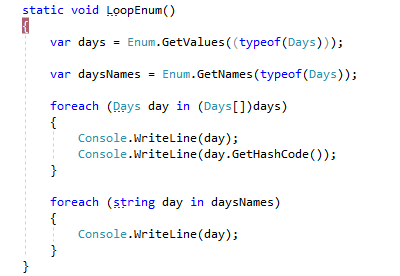
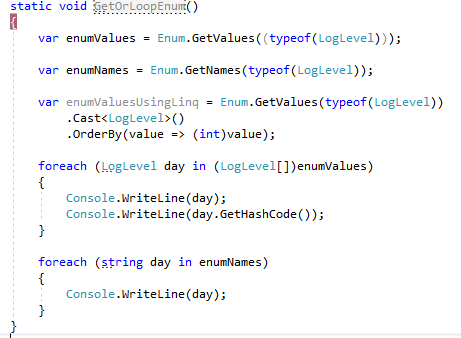
Modified few changes

diff --git a/content/tutorial/c-sharp/loop-enum/index.md b/content/tutorial/c-sharp/loop-enum/index.md
@@ -1,6 +1,6 @@
 +++
-title="How to loop enum values in C#"
-summary="Steps to loop enum values in C# 1.Use C# Enum.GetValues() method to get all possible values of Enum.2.Then, enumerate or loop the enum values using foreach or for loop."
+title="How to loop or get enum names and values in C#"
+summary="Steps to loop or get enum names & values in C# 1.Use C# Enum.GetValues() method to get all possible values of Enum.2.Then, enumerate or loop the enum values using foreach or for loop."
 keywords="['loop enum c#','enumarate enum in c#']"
 type='post'
 date='2020-07-01T18:08:51+0000'
@@ -13,66 +13,63 @@ focal_point=''
 preview_only=false
 +++
 
-Steps to loop enum values in C#
+Steps to loop or get enum names and values in C#
 
 1. Use C# Enum.GetValues() method to get all possible values of Enum.
-2. Then, enumerate or loop the enum values using foreach or for loop. 
+2. And to get all names of enum entries Use C# Enum.GetNames().
+2. Then, enumerate or loop the C# enum names or values using foreach or for loop. 
 
 {{%toc%}}
 
-## Loop Enum Values in C# 
+## Loop or Get Enum Values using C# Enum.GetValues() 
 
 We will take an example to understand it further.
 
-I have created a Days enum as shown below.
+I have created a Log level enum which contains ERROR,WARN,INFO and DEBUG levels as shown below.
 
 ```
-public enum Days
+public enum LogLevel
 {
-        Monday=1,
-        Tuesday=2,
-        Wednesday=3,
-        Thursday=4,
-        Friday=5,
-        Saturday=6,
-        Sunday=7
+   ERROR=1, 
+   WARN=2, 
+   INFO=3, 
+   DEBUG=4
 }
 ```
 
 First we will get all possible values of the enum in C# using Enum.GetValues() method 
 
 ```
- var days = Enum.GetValues((typeof(Days)));
+ var enumValues = Enum.GetValues((typeof(LogLevel)));
 ```
 
 Now we will loop through enum values in C# and print them in console using foreach loop
 
 ```
-foreach (Days day in (Days[])days)
+foreach (LogLevel enumValue in (LogLevel[])enumValues)
 {
-    Console.WriteLine(day);
+    Console.WriteLine(enumValue);
 }
 
 Output:
 
-Monday
-Tuesday
-Wednesday
-Thursday
-Friday
-Saturday
-Sunday
+ERROR 
+WARN 
+INFO 
+DEBUG
 
 ```
 
 Casting to Array is not necessary but it does give some performance benefit.
 
-And to loop all enum integer values we can use Enum.GetHashCode() method
+And further to loop all enum integer values we can use Enum.GetHashCode() method
 
 ```
-foreach (Days day in (Days[])days)
+foreach (LogLevel enumValue in (LogLevel[])enumValues)
 {
- Console.WriteLine(day.GetHashCode());
+    Console.WriteLine(enumValue.GetHashCode());
+    //or
+    //Console.WriteLine((int)enumValue);
 }
 
 Output:
@@ -80,22 +77,36 @@ Output:
 2
 3
 4
-5
-6
-7
 ```
 
-Or we can simply cast the enum to appropriate type i.e, (int)day.
+Or we can simply cast the enum to appropriate type i.e, (int)enumValue.
 
 [Get int value from Enum](https://www.arungudelli.com/tutorial/c-sharp/get-int-value-from-enum-c-sharp-example/)
 
-## Loop Enum Names in C# 
-
-To get all possible enum names in c# we can use Enum.GetNames() methods as shown below
+Further we can use C# linq to get values of C# enum as shown below 
 
 ```
-var daysNames = Enum.GetNames(typeof(Days));
+var enumValues = Enum.GetValues(typeof(LogLevel))
+                .Cast<LogLevel>()
+                .OrderBy(value =>(int)value);
+
+```
+
+## Loop or Get Enum Names using C# Enum.GetNames() 
+
+To get all possible enum names in c# we can use Enum.GetNames() method as shown below
+
+```
+var enumNames = Enum.GetNames((typeof(LogLevel)));
 ```
 
 Enum.GetNames() method will return list of strings which contain all enum names.
 We can loop them further to know all possible enum names.
+
+```
+foreach (string enumName in enumNames)
+{
+    Console.WriteLine(enumName);
+}
+```
+

diff --git a/content/tutorial/c-sharp/check-if-string-is-number/index.md b/content/tutorial/c-sharp/check-if-string-is-number/index.md
@@ -1,6 +1,6 @@
 +++
-title="How to check if a string is number in C#"
-summary="Steps to check if a string is number in c# 1.Declare an integer variable. 2.Pass string to int.TryParse() or double.TryParse() methods with out variable. 3.If the string is a number TryParse method will return true. And assigns value to the declared integer value."
+title="How to check if a string is a number in C#"
+summary="Steps to check if a string is a number in c# 1.Declare an integer variable. 2.Pass string to int.TryParse() or double.TryParse() methods with out variable. 3.If the string is a number TryParse method will return true. And assigns value to the declared integer value."
 keywords="['check if a string is number in C#']"
 type='post'
 date='2020-07-01T19:08:51+0000'
@@ -13,15 +13,15 @@ focal_point=''
 preview_only=false
 +++
 
-Steps to check if a string is number in C#
+Steps to check if a string is a number in C#
 
 1. Declare an integer variable.
 2. Pass string to int.TryParse() or double.TryParse() methods with out variable.
-3. If the string is a number TryParse method will return true. And assigns value to the declared integer value.
+3. If the string is a number TryParse method will return true. And assigns value to the declared integer out value.
 
 {{%toc%}}
 
-## Check if a string is Number or not in C# 
+## Check if a string is a Number or not in C# 
 
 For example we have a string variable "123" and if you want to check whether it is numeric use the below C# code.
 
@@ -40,7 +40,7 @@ bool isNumber = int.TryParse(stringNumber, out numericValue);
 
 ```
 
-From C# 7 onwards we can declare out variable in TryParse Method itself.
+From C# 7 onwards we can declare (out)[https://www.arungudelli.com/tutorial/c-sharp/difference-between-ref-and-out-parameters-in-c-sharp/] variable in TryParse Method itself.
 
 ```
 bool isNumber = int.TryParse(stringNumber, out int numericValue);
